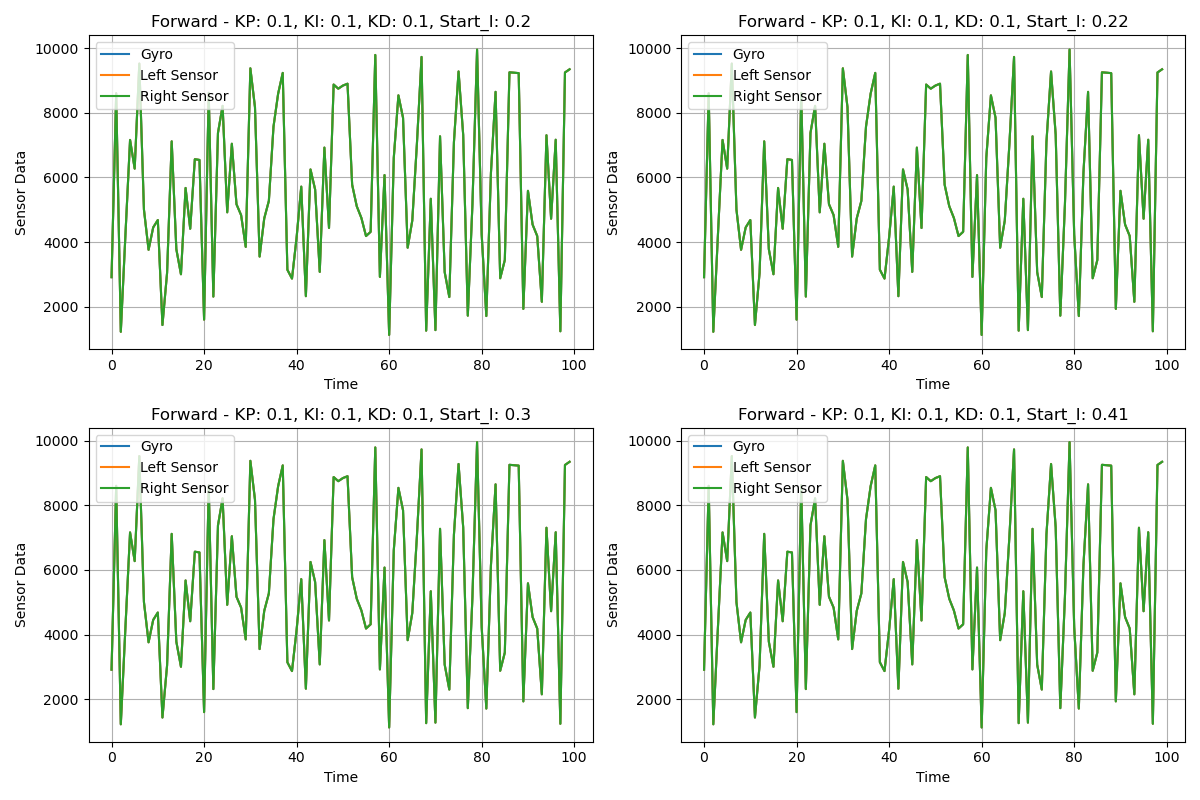
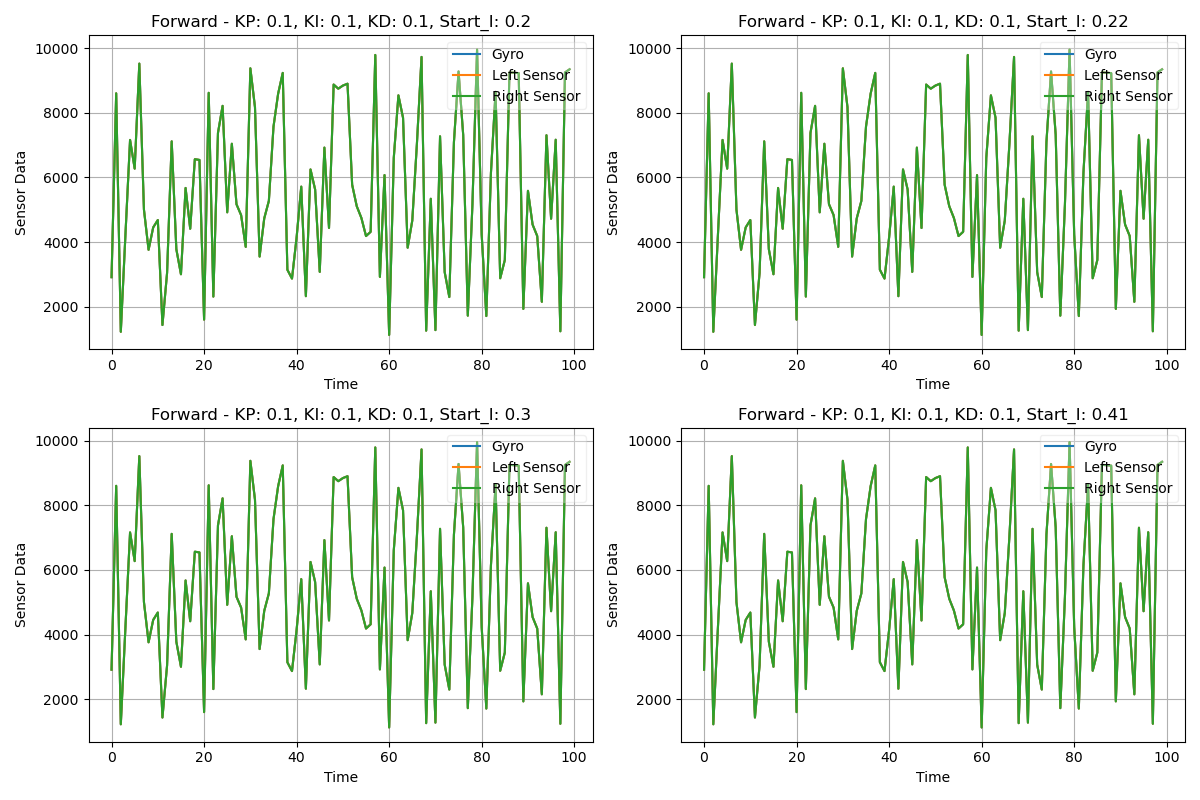
update draw_curve.py && add generate_pid_data.py

diff --git a/script/draw_curve.py b/script/draw_curve.py
@@ -57,16 +57,16 @@ def plot_sensor_data(ax, mode, gyro_data, left_sensor_data, right_sensor_data,gy
     ax.set_xlabel('Time')
     ax.set_ylabel('Sensor Data')
     ax.set_title(title)
-    ax.legend()
+    ax.legend(framealpha=0.3,loc='upper right')
     ax.grid()
 
-def generate_and_save_plot_image(subplots_data, output_file):
+def generate_and_save_plot_image(fig,subplots_data, output_file):
 
     num_subplots = len(subplots_data)
     num_cols = 2
     num_rows = math.ceil(num_subplots / num_cols)
 
-    fig = plt.figure(figsize=(12, 8))
+
     gs = gridspec.GridSpec(num_rows, num_cols)
 
     for idx, (mode, gyro_data, left_sensor_data, right_sensor_data,gyro_target,left_target,right_target, title) in enumerate(subplots_data):
@@ -74,7 +74,6 @@ def generate_and_save_plot_image(subplots_data, output_file):
         col = idx % num_cols
         ax = fig.add_subplot(gs[row, col])
         plot_sensor_data(ax, mode, gyro_data, left_sensor_data, right_sensor_data,gyro_target,left_target,right_target, title)
-
     plt.tight_layout()
     plt.savefig(output_file)
     plt.close()
@@ -108,7 +107,9 @@ if __name__ == '__main__':
                     batch_size_cnt += 1
                     output_file = os.path.join(output_folder, f'batch_{batch_size_cnt}.png')
                     print(f'Generating {output_file}...')
-                    generate_and_save_plot_image(subplots_data, output_file)
+                    fig = plt.figure(figsize=(12, 8),num=batch_size_cnt)
+                    generate_and_save_plot_image(fig,subplots_data, output_file)
+                    fig.show()
                     subplots_data = []
 
     # 生成剩余的图像文件
@@ -116,4 +117,7 @@ if __name__ == '__main__':
         batch_size_cnt += 1
         output_file = os.path.join(output_folder, f'batch_{batch_size_cnt}.png')
         print(f'Generating {output_file}...')
-        generate_and_save_plot_image(subplots_data, output_file)
+        fig = plt.figure(figsize=(12, 8),num=batch_size_cnt)
+        generate_and_save_plot_image(fig,subplots_data, output_file)
+        fig.show()
+    input('Press Enter to exit...')

diff --git a/script/generate_pid_data.py b/script/generate_pid_data.py
@@ -1,0 +1,26 @@
+import numpy as np
+
+def pid_step_response(Kp, Ki, Kd, target, num_points):
+    time = np.arange(0, num_points)
+    error = target - time
+    integral = np.cumsum(error)
+    derivative = np.gradient(error)
+    output = Kp * error + Ki * integral + Kd * derivative
+    return output
+
+Kp = 1.0
+Ki = 0.5
+Kd = 0.2
+target = 180
+num_points = 1000
+
+response_data = pid_step_response(Kp, Ki, Kd, target, num_points)
+
+# Convert data to a comma-separated string
+data_string = ','.join(map(str, response_data))
+
+# Save data string to a text file
+with open('pid_data.txt', 'w') as file:
+    file.write(data_string)
+
+print("Data saved to 'pid_data.txt'")
